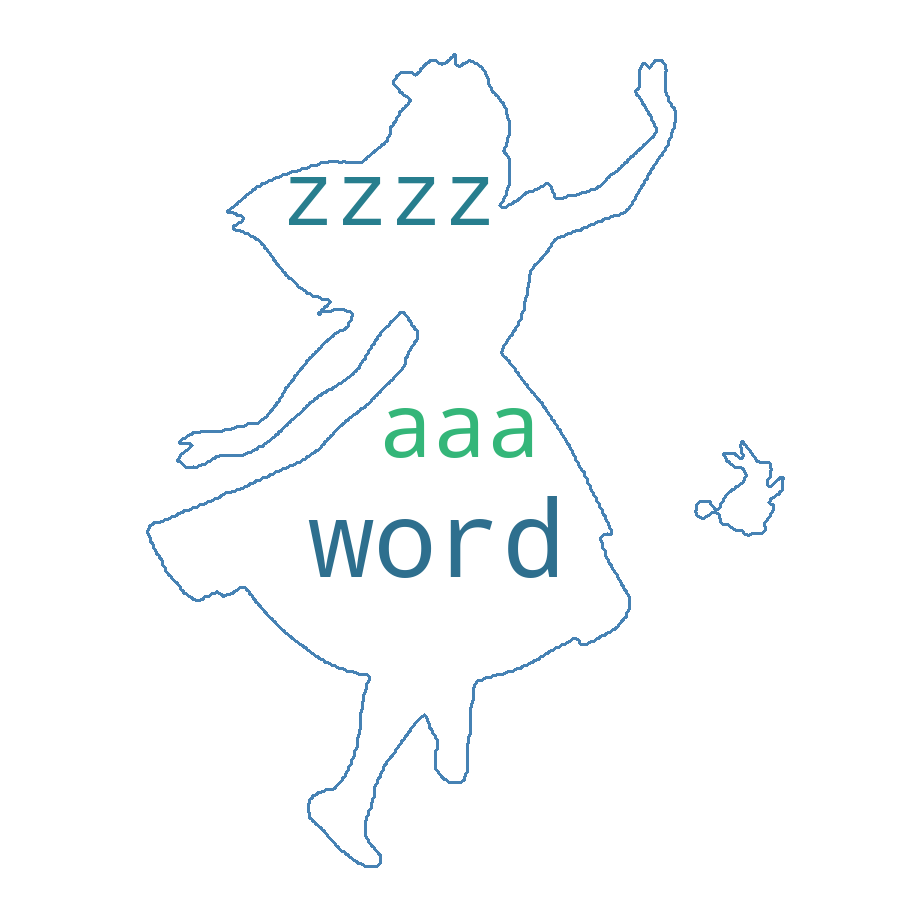
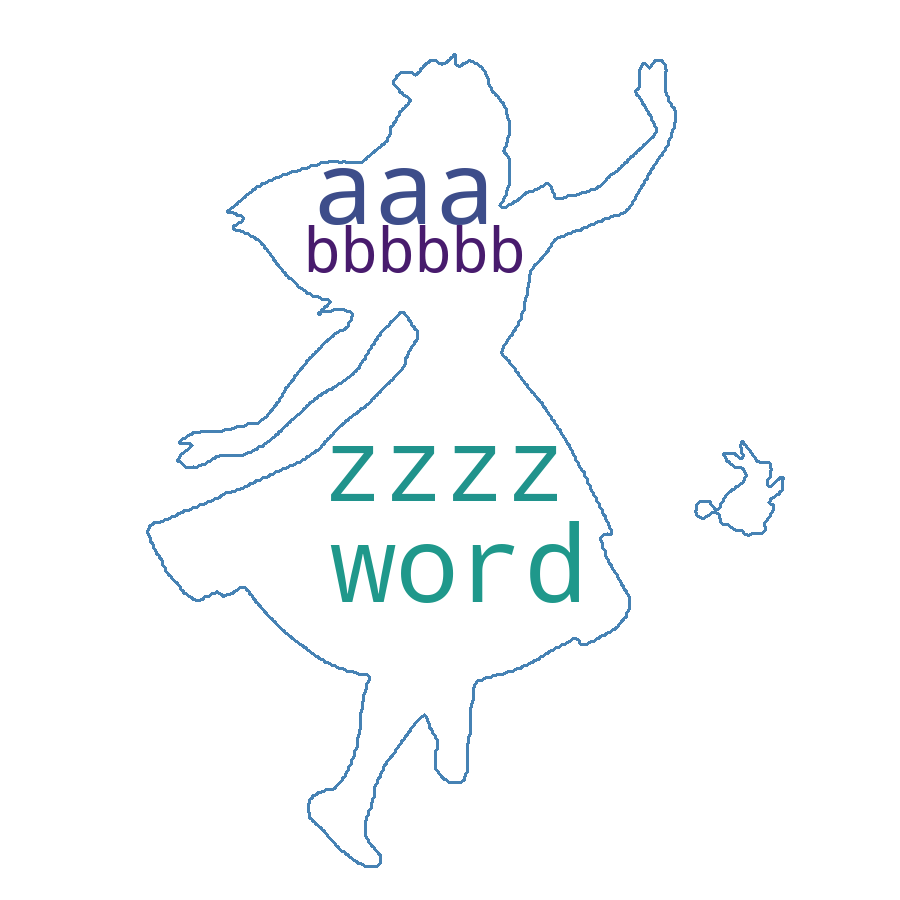
add word analysis

Changed region(s): [[0.3422, 0.4356, 0.6533, 0.6844], [0.3111, 0.1867, 0.5911, 0.3111]]

diff --git a/pages/Analyse_by_keyword.py b/pages/Analyse_by_keyword.py
@@ -13,21 +13,26 @@ import plotly.express as px
 from app import df_tweet
 from functions.Stats import hachtags_numbers, mentions_numbers, getGenderCounts
 import plotly.graph_objects as go
-from functions.Plots import wordCloud
+from functions.Plots import simple_map, treeMap, wordCloud, word_freq_tweet
+import dash_leaflet as dl
 
 layout = dbc.Container(
     [
         dbc.Row(
             [
-                dbc.Col(card(title="tweets without hachtags", value=str(hachtags_numbers(df_tweet.values.tolist())[0][0]), progress=str(hachtags_numbers(df_tweet.values.tolist())[0][1]))),
-                dbc.Col(card(title="tweets with hachtags", value=str(hachtags_numbers(df_tweet.values.tolist())[1][0]), progress=str(hachtags_numbers(df_tweet.values.tolist())[1][1]))),
-                dbc.Col(card(title="tweets without mentions", value=str(mentions_numbers(df_tweet.values.tolist())[0][0]), progress=str(mentions_numbers(df_tweet.values.tolist())[0][1]))),
-                dbc.Col(card(title="tweets with mentions", value=str(mentions_numbers(df_tweet.values.tolist())[1][0]), progress=str(mentions_numbers(df_tweet.values.tolist())[1][1]))),
+                dbc.Col(card(title="tweets without hachtags", value=str(hachtags_numbers(df_tweet.values.tolist())[
+                        0][0]), progress=str(hachtags_numbers(df_tweet.values.tolist())[0][1]))),
+                dbc.Col(card(title="tweets with hachtags", value=str(hachtags_numbers(df_tweet.values.tolist())[
+                        1][0]), progress=str(hachtags_numbers(df_tweet.values.tolist())[1][1]))),
+                dbc.Col(card(title="tweets without mentions", value=str(mentions_numbers(df_tweet.values.tolist())[
+                        0][0]), progress=str(mentions_numbers(df_tweet.values.tolist())[0][1]))),
+                dbc.Col(card(title="tweets with mentions", value=str(mentions_numbers(df_tweet.values.tolist())[
+                        1][0]), progress=str(mentions_numbers(df_tweet.values.tolist())[1][1]))),
             ]
         ),
         dbc.Row(
             html.H3("Variation of tweets count over time", className="mx-auto"),
-            style={"margin" : "20px 0"}
+            style={"margin": "20px 0"}
         ),
         dbc.Row(
             [
@@ -55,17 +60,17 @@ layout = dbc.Container(
         ),
         dbc.Row(
             html.H3("Proportion of users gender", className="mx-auto"),
-            style={"margin" : "20px 0"}
+            style={"margin": "20px 0"}
         ),
         dbc.Row(
             [
-                dbc.Col(cardMultiProgress(title1="Hommes", title2="Femmes", value1=str(getGenderCounts(df_tweet)["male"]), value2=str(getGenderCounts(df_tweet)["female"]), 
-                                            progress1=str( int(int(getGenderCounts(df_tweet)["male"])*100/300)), progress2=str( int(int(getGenderCounts(df_tweet)["male"]))*100/300))),
+                dbc.Col(cardMultiProgress(title1="Hommes", title2="Femmes", value1=str(getGenderCounts(df_tweet)["male"]), value2=str(getGenderCounts(df_tweet)["female"]),
+                                          progress1=str(int(int(getGenderCounts(df_tweet)["male"])*100/300)), progress2=str(int(int(getGenderCounts(df_tweet)["male"]))*100/300))),
             ]
         ),
         dbc.Row(
             html.H3("Sentiment Analysis", className="mx-auto"),
-            style={"margin" : "20px 0"}
+            style={"margin": "20px 0"}
         ),
         dbc.Row(
             [
@@ -88,19 +93,60 @@ layout = dbc.Container(
                         )
                     ])]), width=3),
                 dbc.Col(
-                    dcc.Graph(id="graph-sentiment"), 
+                    dcc.Graph(id="graph-sentiment"),
                     width=9
                 )
 
             ]
         ),
         dbc.Row(
+            html.H3("Words Analysis", className="mx-auto"),
+            style={"margin": "20px 0"}
+        ),
+        dbc.Row(
             dbc.Col(
                 [
-                    html.Button(id='invisible_button', style={'display':'none'}),
-                    html.Img(id="graph-wordcloud", src=".\\assets\\alice.png")
+                    # html.Img(id="graph-wordcloud", src=".\\assets\\alice.png")
                 ]
             )
+        ),
+        dbc.Row([
+            dbc.Col(
+                [
+                    dcc.Tabs(id='tabs-example', children=[
+                        dcc.Tab(label='TreeMap', children=[
+                            dcc.Graph(figure=treeMap(df_tweet))
+                        ]),
+                        dcc.Tab(label='WordCloud', children=[
+                            html.H3("WordCloud")
+                        ]),
+                    ]),
+
+                ]
+            )
+
+        ]
+        ),
+        dbc.Row([
+            dbc.Col(
+                [
+                    dcc.Graph(figure=word_freq_tweet(df_tweet))
+
+                ]
+            )
+
+        ]
+        ),
+        dbc.Row([
+            dbc.Col(
+                [
+                    dl.Map([dl.TileLayer(), dl.LayerGroup(id="layer")], id="map", style={
+                           'width': '100%', 'height': '50vh', 'margin': "auto", "display": "block"}),
+
+                ]
+            )
+
+        ]
         )
     ],
 )
@@ -121,7 +167,7 @@ def update_graph_dist(dist_var):
     # df = df.rename(columns={'truncated': 'count'})
     fig = px.line(df_time, x='created_at', y="sum")
     fig.layout.paper_bgcolor = '#fafafa'
-    #fig.layout.plot_bgcolor = "#fff"
+    # fig.layout.plot_bgcolor = "#fff"
     return fig
 
 
@@ -132,36 +178,33 @@ def update_graph_sent(dist_var):
 
     df = df_tweet.copy()
 
-    labels = ['Positive','Negative']
-    values = ['1000','500']
+    labels = ['Positive', 'Negative']
+    values = ['1000', '500']
     colors = ['#EF553B', 'rgb(102,194,165)']
 
     # Use `hole` to create a donut-like pie chart
     fig = go.Figure(data=[go.Pie(labels=labels, values=values, hole=.5)])
     fig.update_layout(
-    autosize=False,
-    # width=500,
-    # height=500,
-    margin=dict(
-        l=100,
-        r=10,
-        b=100,
-        t=10,
-        pad=10
-    ),
-    paper_bgcolor="#fafafa",
+        autosize=False,
+        # width=500,
+        # height=500,
+        margin=dict(
+            l=100,
+            r=10,
+            b=100,
+            t=10,
+            pad=10
+        ),
+        paper_bgcolor="#fafafa",
     )
 
     fig.update_traces(hoverinfo='label+percent', textinfo='value', textfont_size=20,
-                  marker=dict(colors=colors))
+                      marker=dict(colors=colors))
 
     return fig
 
 
-@app.callback(
-    Output('graph-wordcloud', 'src'),
-    [Input('url','pathname')])
-def update_graph_wordcloud(dist_var):
-    #print("aaaa\n\n")
-    df = df_tweet.copy()
-    return wordCloud(df)
+@app.callback(Output("layer", "children"), [Input("map", "click_lat_lng")])
+def map_click(click_lat_lng):
+
+    return simple_map(df_tweet, nb_makers=20)

diff --git a/functions/Plots.py b/functions/Plots.py
@@ -5,7 +5,12 @@ import numpy as np
 import matplotlib.pyplot as plt
 import os
 from wordcloud import WordCloud, STOPWORDS
-
+from nltk.probability import FreqDist
+import pandas as pd
+import plotly.express as px
+from functions.NLP import preprocess
+from app import geolocator
+import dash_leaflet as dl
 
 # def LDA_plot():
 #     vis = gensimvis.prepare(lda_model_tfidf, bow_corpus, dictionary=lda_model_tfidf.id2word)
@@ -25,15 +30,16 @@ def wordCloud(df):
     # #create dictionary mapping of word count
     # top_30_dictionary = dict(zip(most_common_word, most_common_count))
 
-    alice_mask = np.array(Image.open(path.join(d, ".\\assets\\alice_mask.png")))
+    alice_mask = np.array(Image.open(
+        path.join(d, ".\\assets\\alice_mask.png")))
 
     stopwords = set(STOPWORDS)
 
     wc = WordCloud(background_color="white", max_words=2000, mask=alice_mask,
-                stopwords=stopwords, contour_width=3, contour_color='steelblue')
+                   stopwords=stopwords, contour_width=3, contour_color='steelblue')
 
     # generate word cloud
-    wc.generate(" ".join(["all word","zzzz","aaa"]))
+    wc.generate(" ".join(["all word", "zzzz", "aaa", "bbbbbb"]))
 
     # store to file
     wc.to_file(path.join(d, ".\\assets\\alice.png"))
@@ -47,3 +53,62 @@ def wordCloud(df):
     # plt.show()
 
     return ".\\assets\\alice.png"
+
+
+def treeMap(df_input):
+    df = df_input.copy()
+    df['full_text'] = df.full_text.apply(preprocess)
+
+    all_words = [word for tokens in df['full_text'] for word in tokens]
+
+    word_freq = FreqDist(all_words)
+
+    most_common_count = [x[1] for x in word_freq.most_common(30)]
+    most_common_word = [x[0] for x in word_freq.most_common(30)]
+
+    most_common_word.pop(0)
+    most_common_count.pop(0)
+
+    dict_word_count = {'word': most_common_word, 'count': most_common_count}
+
+    new_df = pd.DataFrame(dict_word_count)
+
+    fig = px.treemap(new_df, path=['word'], values='count',
+                     hover_data=['count'], color="count",
+                     color_continuous_scale='tempo'
+                     )
+    fig.layout.paper_bgcolor = '#fafafa'
+    return fig
+
+
+def word_freq_tweet(df):
+    my_df = df.copy()
+    my_df['full_text'] = my_df.full_text.apply(preprocess)
+    all_words = [word for tokens in my_df['full_text'] for word in tokens]
+
+    tweet_lengths = [len(tokens) for tokens in my_df['full_text']]
+
+    df = pd.DataFrame(tweet_lengths, columns=["length"])
+    df["count"] = 1
+    df_count = df.groupby(['length'], as_index=False).count()
+
+    fig = px.bar(df_count, x='length', y='count', labels={
+                 'count': 'Number of Tweets', 'length': 'Words per Tweet'})
+
+    return fig
+
+
+def simple_map(df, nb_makers):
+    postions = []
+    for tweet in df.iloc[0:, :nb_makers].iterrows():
+        try:
+            if tweet[1]['user']['location']:
+                coordinate = geolocator.geocode(tweet[1]['user']['location'])
+                if(not coordinate):
+                    continue
+
+                postions.append(dl.Marker(position=(
+                    coordinate.latitude, coordinate.longitude), title=tweet[1]['full_text']))
+        except KeyError:
+            continue
+    return postions

diff --git a/app.py b/app.py
@@ -6,12 +6,15 @@ import inspect
 import pickle
 import gzip
 import nltk
-
+from geopy.geocoders import Nominatim
 # LDA_model = pickle.load(open("./models/lda_model_tfidf.sav", 'rb'))
 
+# TODO remove comment
+# nltk.download('movie_reviews')
+# nltk.download('punkt')
 
-nltk.download('movie_reviews')
-nltk.download('punkt')
+
+geolocator = Nominatim(user_agent='http://127.0.0.1:8888/')
 
 external_stylesheets = [
     {
@@ -74,7 +77,7 @@ external_scripts = [
 ]
 
 df_tweet = pd.read_json("./data/covid-tweets-sample.jsonl",
-                         orient='records', lines=True)
+                        orient='records', lines=True)
 
 app = dash.Dash(__name__, external_scripts=external_scripts,
                 external_stylesheets=external_stylesheets, suppress_callback_exceptions=True)

diff --git a/functions/Utils.py b/functions/Utils.py
@@ -2,8 +2,10 @@ from functions.NLP import tokenize_lowercase
 
 import secrets
 
+
 def get_tags(text):
     return tokenize_lowercase(text)
 
-def get_random_element(liste_element=["primary","secondary","success",'danger',"info","warning",'dark']):
+
+def get_random_element(liste_element=["primary", "secondary", "success", 'danger', "info", "warning", 'dark']):
     return secrets.choice(liste_element)
